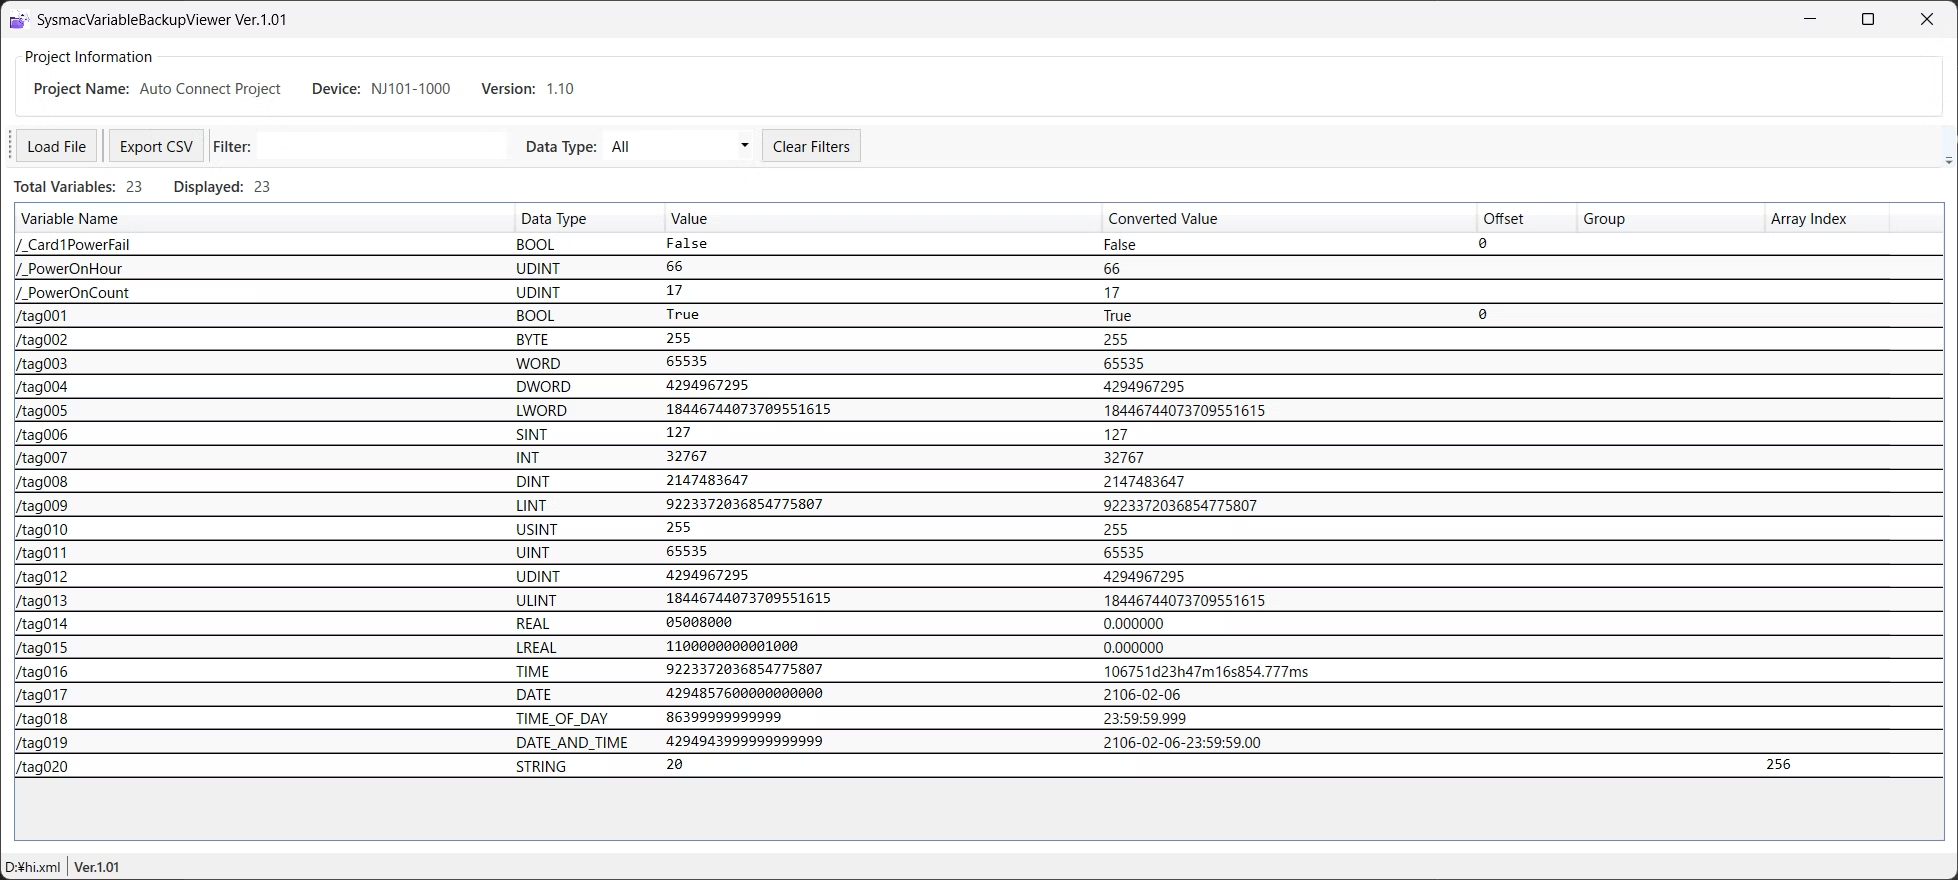
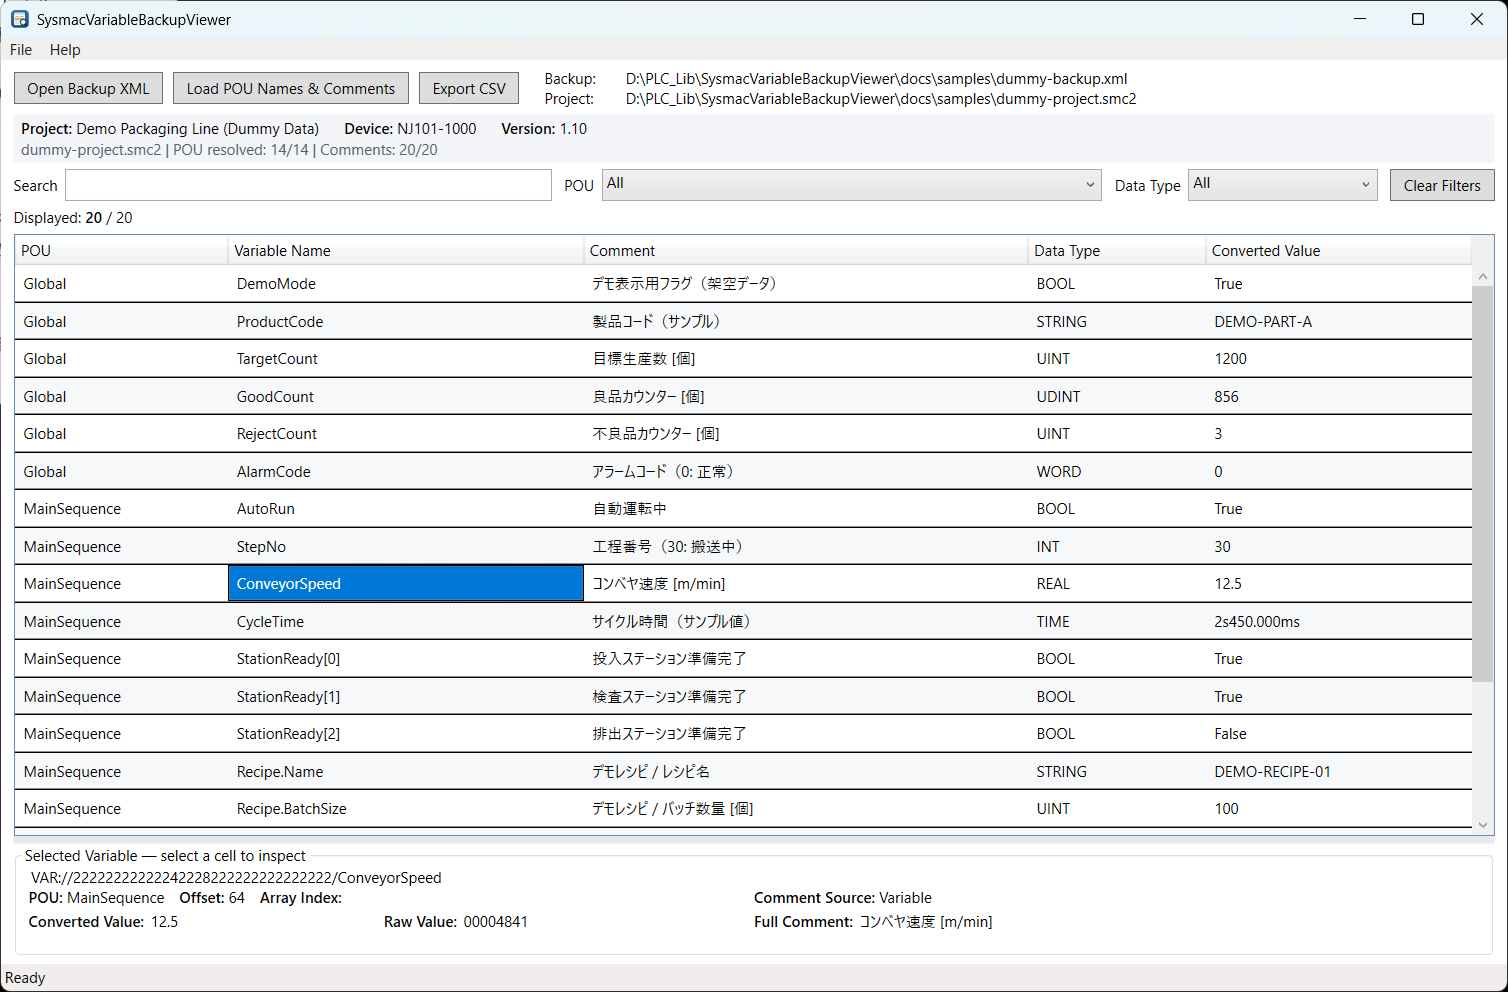
docs: refresh screenshot with reproducible dummy data

Changed region(s): [[0.0, 0.0, 1.0, 1.0], [0.4987, 0.8898, 0.6545, 0.9511], [0.2493, 0.9205, 0.3428, 0.9511]]

diff --git a/README.md b/README.md
@@ -10,6 +10,8 @@
 
 ![SysmacVariableBackupViewer Screenshot](image1.png)
 
+Screenshot with synthetic data only. To reproduce it, open [dummy-backup.xml](docs/samples/dummy-backup.xml), then load [dummy-project.smc2](docs/samples/dummy-project.smc2) using **Load POU Names & Comments**. The SMC2 file contains only demonstration metadata for this viewer; it is not a runnable Sysmac Studio project.
+
 ---
 
 ## English
@@ -105,6 +107,8 @@ This project is licensed under the MIT License. See [LICENSE](LICENSE).
 ### 概要
 
 ![SysmacVariableBackupViewer スクリーンショット](image1.png)
+
+画像はすべて架空のダミーデータです。[dummy-backup.xml](docs/samples/dummy-backup.xml)を開き、**Load POU Names & Comments**から[dummy-project.smc2](docs/samples/dummy-project.smc2)を読み込むと再現できます。SMC2ファイルは本ビューアーの表示確認用メタデータのみを含み、Sysmac Studioで実行できるプロジェクトではありません。
 
 SysmacVariableBackupViewerは、Sysmac StudioのXMLバックアップファイルを表示・分析するためのWindowsデスクトップアプリケーションです。高度なフィルタリング機能とエクスポート機能を備えた、使いやすいインターフェースで変数データを表示します。
 
